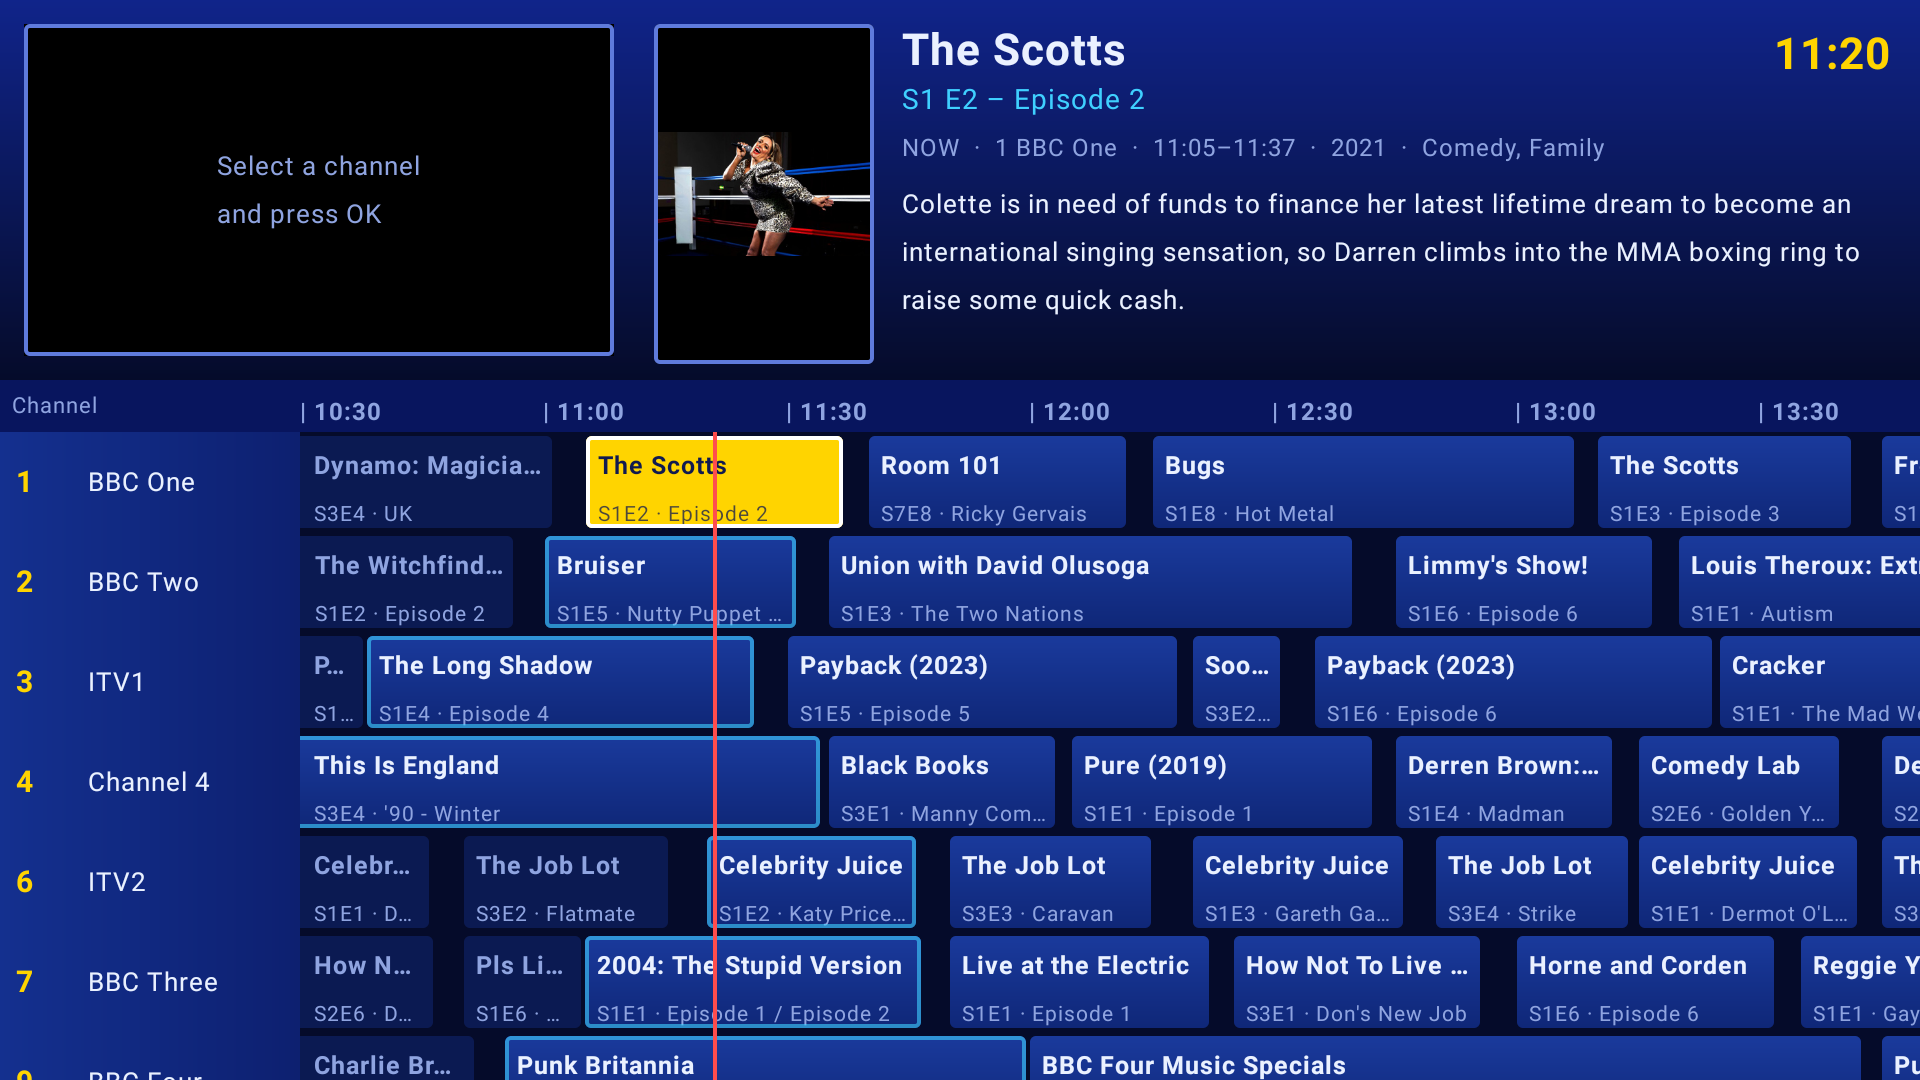
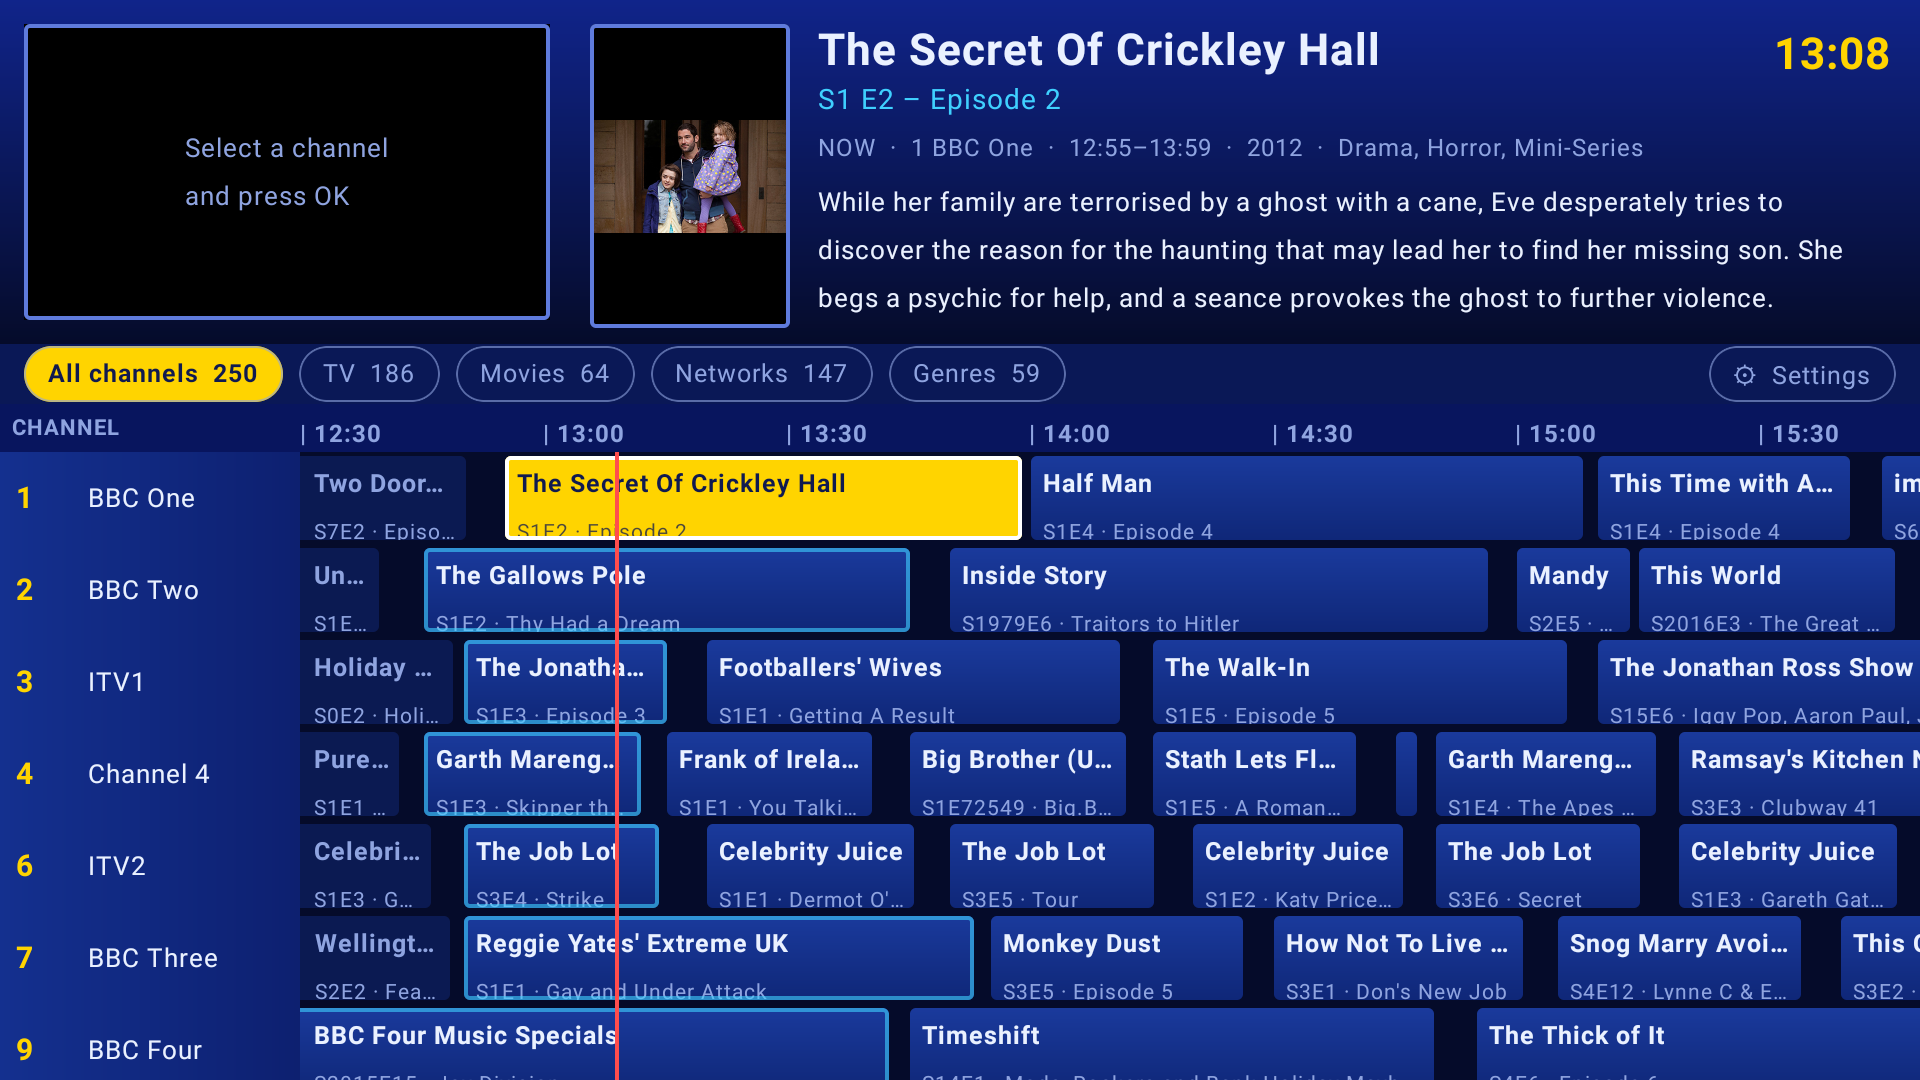
Update README and screenshots for filters, pause, Satellite themes and TV settings

diff --git a/README.md b/README.md
@@ -37,8 +37,12 @@ and (if you like) nostalgic ad breaks.
 - **A real schedule.** Planned ahead and persisted, so the guide and the stream always agree, with history you can scroll back to. Every viewer of a channel shares one live stream.
 - **Ad breaks (optional).** Add YouTube / archive.org / direct links (downloaded once with yt-dlp) or point at local folders tagged *TV* or *Movies* (so trailers only play on movie channels). Long ad-break compilations are supported: each break plays a random chunk, like joining a recorded break in progress.
 - **"Coming up next" announcements.** After each programme a continuity slot plays: a clip from inside the next programme with a voice reading out what's on next and after that, using each programme's description (with sensible fallbacks), plus UP NEXT / AFTER THAT / LATER captions. The voice is generated locally with [Piper](https://github.com/rhasspy/piper): offline, free, no AI service. Two British voices (Alan and Jenny).
-- **Seven themes**: Classic, Vintage, 90s, Modern, Aero, Teletext and Synthwave, on the web and on Android TV.
-- **Android TV app** with a proper remote-control experience (see below).
+- **Filter chips** above the guide: All channels, TV, Movies, Networks (studio channels) and Genres.
+- **Pause and rewind live TV.** A rolling buffer on the server (10 minutes by default) lets you pause, skip back and return to live, on the web and on Android TV.
+- **Know how long is left.** The info banner shows a progress bar and "N min left" for the current programme, what's next, and how far behind live you are if you've paused.
+- **Always tunable.** Between programmes (ad breaks and announcements) a channel is still on air and you can still tune to it.
+- **Nine themes**: Classic, Vintage, 90s, Modern, Aero, Teletext, Synthwave and two **Satellite** looks (classic and HD) inspired by the early-2000s UK satellite guide, with the live preview kept. On the web and on Android TV.
+- **Android TV app** with a proper remote-control experience, a full settings screen, and server controls (ads, announcements, rescans) right from the sofa (see below).
 
 ## Quick start
 
@@ -57,7 +61,7 @@ services:
       - /opt/wbtv:/config                  # database + downloaded ads
       - /mnt/Main20TB:/mnt/Main20TB:ro     # your media, read-only
     tmpfs:
-      - /tmp/wbtv:size=1g                  # live stream segments
+      - /tmp/wbtv:size=2g                  # live stream segments (incl. the pause/rewind buffer)
 ```
 
 ```bash
@@ -94,8 +98,16 @@ Then open `http://<host>:8420`, click **Setup**, and add your first library fold
 2. **Channels**: check what was built, rename or renumber things, switch channels off.
 3. **Ads** (optional): turn on ad breaks, set how long and how often, add ad folders or links.
 4. **Announcements**: switch the "coming up next" voice-overs on or off, pick the voice (with a sample button), and choose how many programmes to mention and how long it may run.
-5. **Settings**: automatic rescans, and how many channels get created (minimum channel size, genre channels for every show, movie studio and decade channels).
+5. **Settings**: automatic rescans, the pause/rewind buffer, and how many channels get created (minimum channel size, genre channels for every show, movie studio and decade channels).
 6. **Appearance**: pick a theme, and choose whether selecting a programme jumps straight to fullscreen.
+
+Use the **filter chips** above the guide (or `[` and `]`) to show only TV channels, movie channels, networks or genres:
+
+<p align="center">
+  <img src="Images/Screenshots/web-guide-filters.jpg" alt="Filter chips: Movies" width="80%">
+</p>
+
+**Web keys:** arrows to browse, Enter to watch, 0-9 for a channel number, Space to pause, Left/Right to rewind or skip in fullscreen, L to go back to live, F for fullscreen, G or Esc for the guide.
 
 ## Themes
 
@@ -110,6 +122,10 @@ Then open `http://<host>:8420`, click **Setup**, and add your first library fold
 <p align="center">
   <img src="Images/Screenshots/web-guide-teletext.jpg" alt="Teletext" width="48%">
   <img src="Images/Screenshots/web-guide-synthwave.jpg" alt="Synthwave" width="48%">
+</p>
+<p align="center">
+  <img src="Images/Screenshots/web-guide-satellite.jpg" alt="Satellite (classic)" width="48%">
+  <img src="Images/Screenshots/web-guide-satellite-hd.jpg" alt="Satellite HD" width="48%">
 </p>
 
 ## Android TV app
@@ -127,18 +143,26 @@ TV on, and is built for the remote.
 </p>
 <p align="center">
   <img src="Images/Screenshots/tv-guide-classic.png" alt="Guide, Classic theme" width="48%">
-  <img src="Images/Screenshots/tv-guide-synthwave.png" alt="Guide, Synthwave theme" width="48%">
+  <img src="Images/Screenshots/tv-settings.png" alt="Settings" width="48%">
+</p>
+<p align="center">
+  <img src="Images/Screenshots/tv-guide-satellite.png" alt="Guide, Satellite (classic) theme" width="48%">
+  <img src="Images/Screenshots/tv-guide-satellite-hd.png" alt="Guide, Satellite HD theme" width="48%">
 </p>
 
 | Key | Watching | In the guide |
 |---|---|---|
-| Up / Down, CH+ / CH- | next / previous channel | move between channels |
+| Up / Down, CH+ / CH- | next / previous channel | move between channels; Up from the top row goes to the filter chips and **Settings** |
 | Left | last channel | previous programme |
-| Right | open guide | next programme |
-| OK / Guide | open guide | tune a live programme (fullscreen if the setting is on) |
+| Right | info banner (progress, minutes left) | next programme |
+| OK / Guide | open guide | tune it (a live programme, or any programme if the channel is between programmes); fullscreen if the setting is on |
+| Play / Pause | pause or resume live TV | same |
+| Rewind / Fast-forward | back 30 s / forward 30 s (past the live edge = back to live) | |
 | 0-9 | jump to channel number | same |
-| Menu | server, theme and behaviour settings | same |
-| Back | press twice to exit | close guide |
+| Menu | settings | settings |
+| Back | press twice to exit | close the guide |
+
+**Settings** (Menu, or Up from the top row of the guide then the Settings button): theme, fullscreen behaviour, and the server's own switches (ad breaks, "coming up next" announcements, automatic rescans, pause/rewind buffer, scan now), so you can change them without a laptop.
 
 **Build** (needs JDK 17+ and the Android SDK, e.g. from Android Studio):
 
@@ -157,7 +181,7 @@ it needs Android 8 or newer.
 ```
 src/         Node.js server: scanner, channel inference, scheduler, live HLS broadcaster, API
 public/      Web UI (vanilla JS)
-android/     Android TV app (Kotlin, Compose, Media3)
+android/     Android TV app (Kotlin, Compose, Media3); unit tests: ./gradlew testDebugUnitTest
 Images/      Artwork (Assets) and screenshots (Screenshots)
 test/        Unit tests (npm test)
 Dockerfile   Node 24 + ffmpeg + yt-dlp + Piper (speech)
